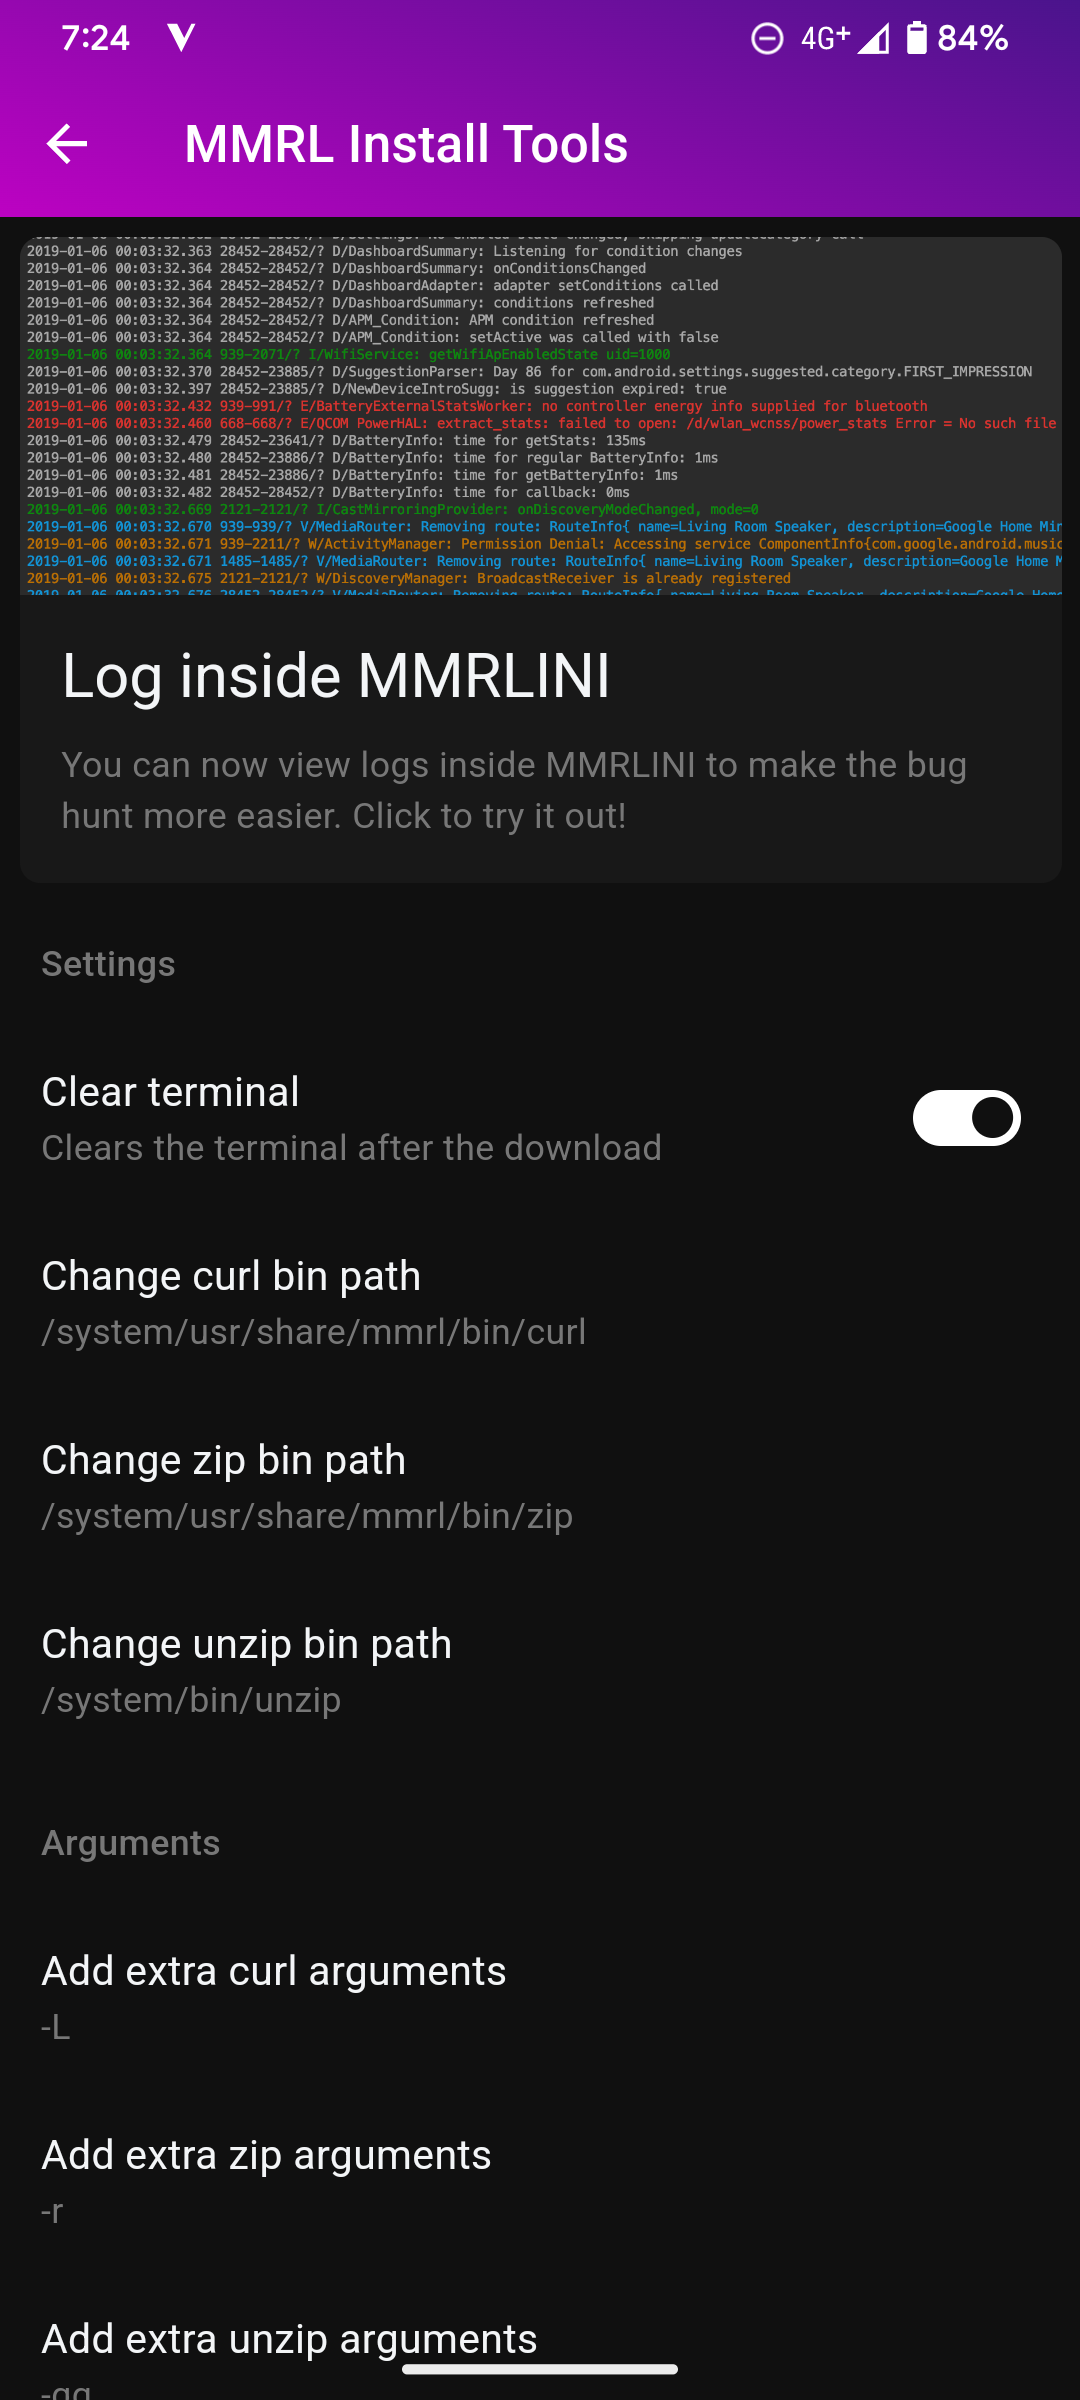
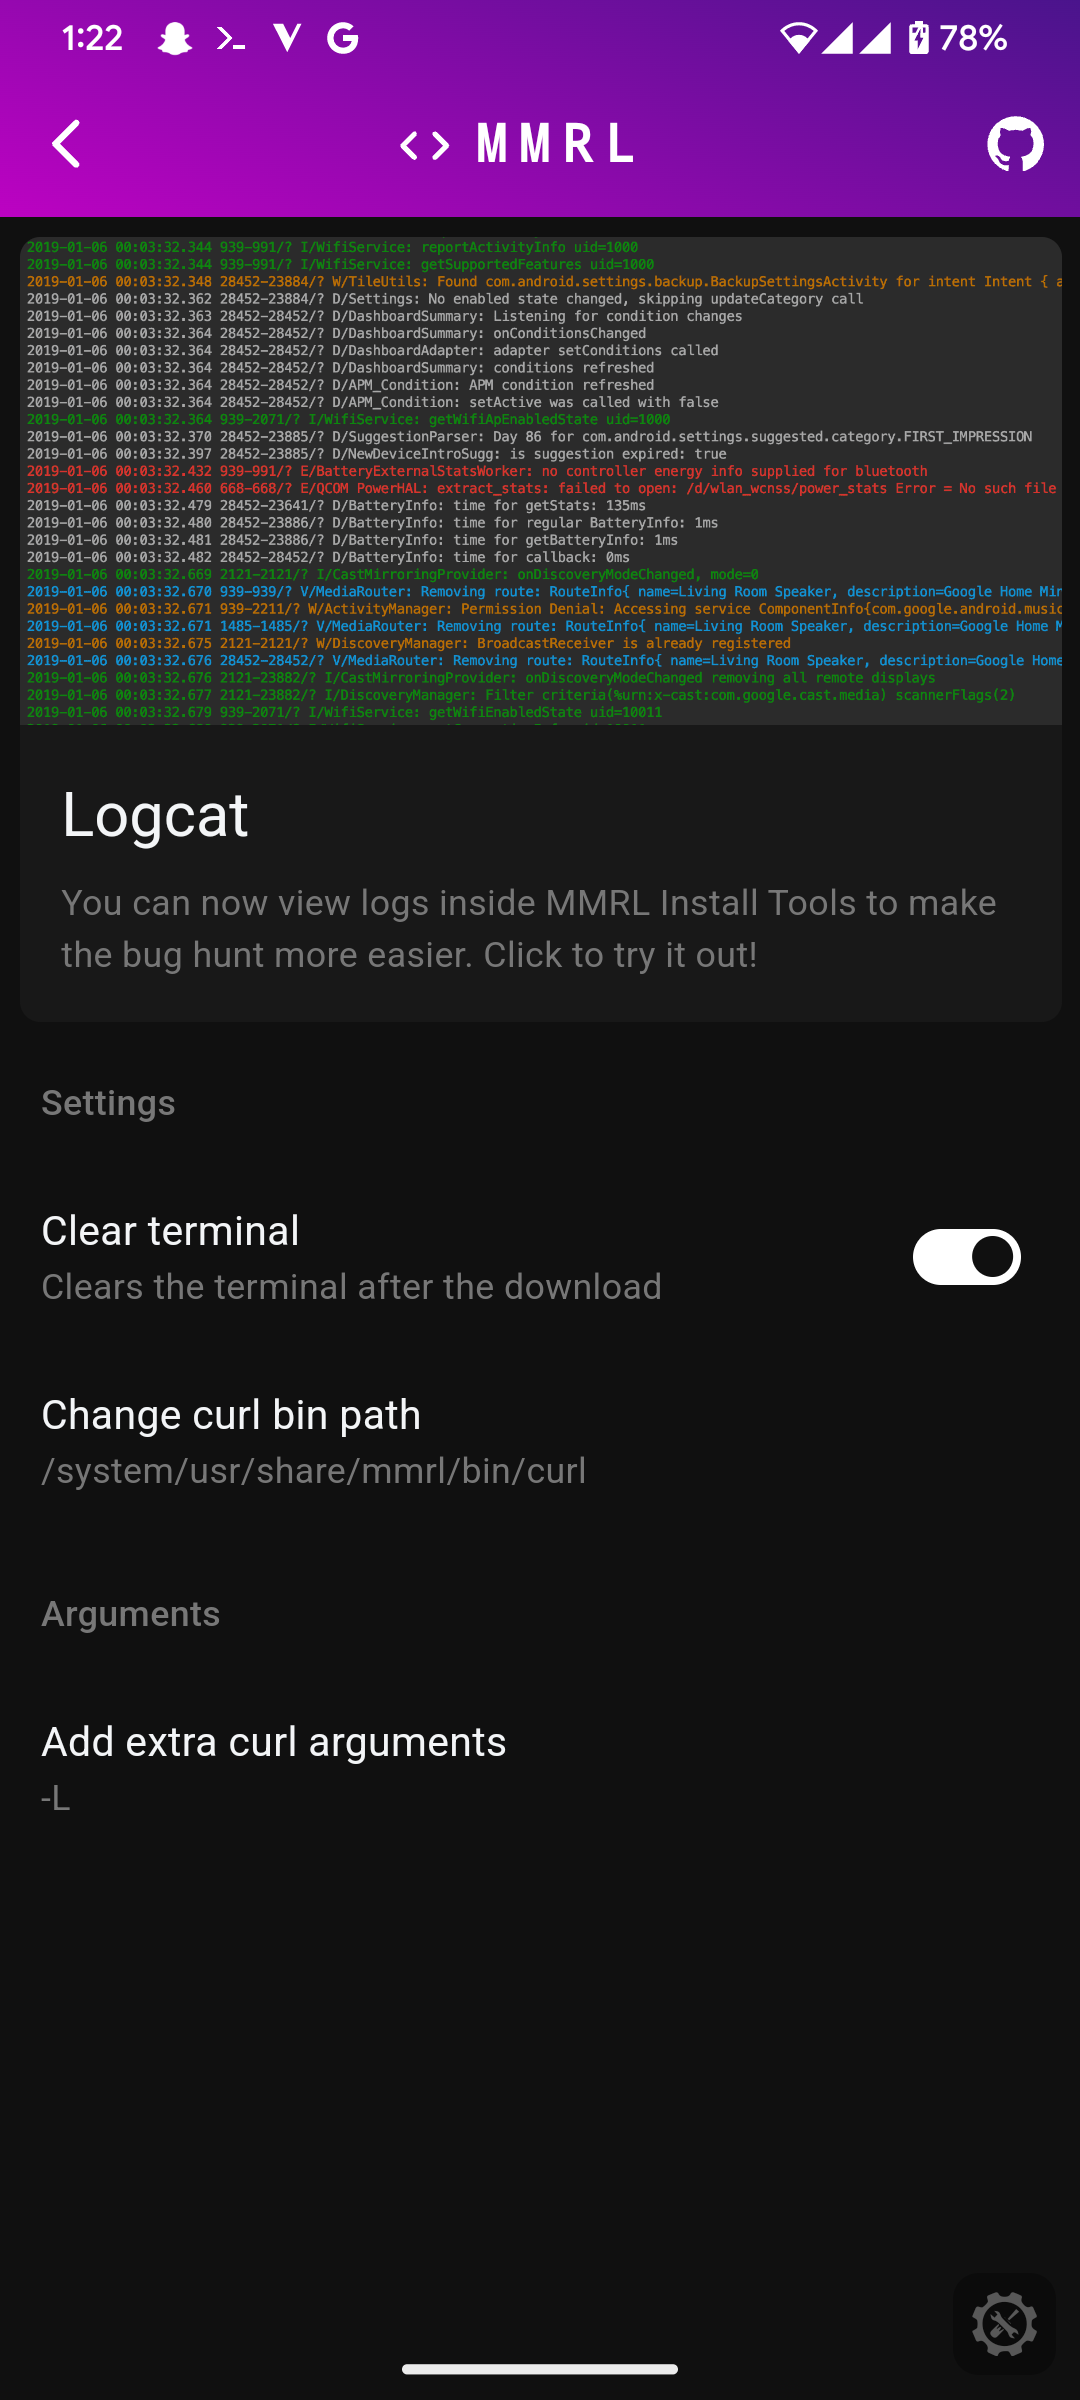
7.5.12

diff --git a/system/usr/share/mmrl/config/mmrl_install_tools/components/RenderToolbar.jsx b/system/usr/share/mmrl/config/mmrl_install_tools/components/RenderToolbar.jsx
@@ -1,24 +1,80 @@
 import React from "react";
 import { useActivity } from "@mmrl/hooks";
+import { CodeRounded,ArrowBackIosRounded,  GitHub } from "@mui/icons-material";
+import { Typography } from "@mui/material";
 import { Toolbar } from "@mmrl/ui";
 
-export default (title) => {
+export default (props) => {
   const { context } = useActivity();
 
   return () => {
-    return (
-      <Toolbar
-        modifier="noshadow"
-        sx={{
-          background: "rgb(188,2,194)",
-          background: "linear-gradient(22deg, rgba(188,2,194,1) 0%, rgba(74,20,140,1) 100%)",
-        }}
-      >
-        <Toolbar.Left>
-          <Toolbar.BackButton onClick={context.popPage} />
-        </Toolbar.Left>
-        <Toolbar.Center>{title}</Toolbar.Center>
-      </Toolbar>
-    );
+    if (props.isHome) {
+      return (
+        <Toolbar
+          modifier="noshadow"
+          sx={{
+            background: "rgb(188,2,194)",
+            background: "linear-gradient(22deg, rgba(188,2,194,1) 0%, rgba(74,20,140,1) 100%)",
+          }}
+        >
+          <Toolbar.Left>
+            <Toolbar.Button icon={ArrowBackIosRounded} onClick={context.popPage} />
+          </Toolbar.Left>
+          <Toolbar.Center
+            sx={{
+              display: "flex",
+              justifyContent: "center",
+              alignSelf: "center",
+              alignItems: "center",
+            }}
+          >
+            <Typography
+              sx={{
+                display: "flex",
+                justifyContent: "center",
+                alignSelf: "center",
+                alignItems: "center",
+              }}
+            >
+              <CodeRounded sx={{ display: "flex", mr: 1 }} />
+              <Typography
+                variant="h6"
+                noWrap
+                component="div"
+                sx={{
+                  mr: 2,
+                  display: "flex",
+                  fontFamily: "monospace",
+                  fontWeight: 700,
+                  letterSpacing: ".3rem",
+                  color: "inherit",
+                  textDecoration: "none",
+                }}
+              >
+                MMRL
+              </Typography>
+            </Typography>
+          </Toolbar.Center>
+          <Toolbar.Right>
+            <Toolbar.Button icon={GitHub} onClick={() => window.open("https://github.com/DerGoogler/mmrl_install_tools")} />
+          </Toolbar.Right>
+        </Toolbar>
+      );
+    } else {
+      return (
+        <Toolbar
+          modifier="noshadow"
+          sx={{
+            background: "rgb(188,2,194)",
+            background: "linear-gradient(22deg, rgba(188,2,194,1) 0%, rgba(74,20,140,1) 100%)",
+          }}
+        >
+          <Toolbar.Left>
+            <Toolbar.Button icon={ArrowBackIosRounded} onClick={context.popPage} />
+          </Toolbar.Left>
+          <Toolbar.Center>{props.title}</Toolbar.Center>
+        </Toolbar>
+      );
+    }
   };
 };

diff --git a/system/usr/share/mmrl/config/mmrl_install_tools/index.jsx b/system/usr/share/mmrl/config/mmrl_install_tools/index.jsx
@@ -10,12 +10,12 @@ const CenterBox = include("components/CenterBox.jsx");
 
 function App() {
   const { context } = useActivity();
-  const { theme } = useTheme()
+  const { theme } = useTheme();
   const [config, setConfig] = useConfig();
 
   if (BuildConfig.VERSION_CODE < 21410) {
     return (
-      <Page renderToolbar={RenderToolbar("Version mismatch")}>
+      <Page renderToolbar={RenderToolbar({ title: "Version mismatch" })}>
         <CenterBox>
           MMRL Install Tools requires MMRL above <strong>2.14.10</strong>!
         </CenterBox>
@@ -24,7 +24,7 @@ function App() {
   }
 
   return (
-    <Page sx={{ p: 0 }} renderToolbar={RenderToolbar("MMRL Install Tools")}>
+    <Page sx={{ p: 0 }} renderToolbar={RenderToolbar({ isHome: true })}>
       <Card sx={{ m: 1 }}>
         <CardActionArea
           onClick={() => {
@@ -35,7 +35,12 @@ function App() {
             });
           }}
         >
-          <Image src="<CONFCWD>/assets/logcat-min.png" noOpen modFSAdds={{ MODID: modid }} sx={{ borderRadius: `${theme.shape.borderRadius}px ${theme.shape.borderRadius}px 0px 0px`,   border:"none",   width: "100%", height: "50%" }} />
+          <Image
+            src="<CONFCWD>/assets/logcat-min.png"
+            noOpen
+            modFSAdds={{ MODID: modid }}
+            sx={{ borderRadius: `${theme.shape.borderRadius}px ${theme.shape.borderRadius}px 0px 0px`, border: "none", width: "100%", height: "50%" }}
+          />
           <CardContent>
             <Typography gutterBottom variant="h5" component="div">
               Logcat
@@ -77,14 +82,6 @@ function App() {
         >
           <ListItemText primary="Add extra curl arguments" secondary={config.curl__args} />
         </ListItemDialogEditText>
-      </List>
-
-      <Divider />
-
-      <List subheader={<ListSubheader>Project</ListSubheader>}>
-        <ListItemButton onClick={() => window.open("https://github.com/DerGoogler/MMRL/issues")}>
-          <ListItemText primary="Report a issue" />
-        </ListItemButton>
       </List>
     </Page>
   );

diff --git a/system/usr/share/mmrl/config/mmrl_install_tools/activitys/TerminalActivity.jsx b/system/usr/share/mmrl/config/mmrl_install_tools/activitys/TerminalActivity.jsx
@@ -6,7 +6,7 @@ import { Stack, Box, Slider } from "@mui/material";
 import Terminal from "@mmrl/terminal";
 import FlatList from "flatlist-react";
 
-const RenderToolbar = include("components/RenderToolbar.jsx")
+const RenderToolbar = include("components/RenderToolbar.jsx");
 
 export default () => {
   const [fontSize, setFontSize] = useNativeStorage("mmrlini_log_terminal", 100);
@@ -51,7 +51,7 @@ export default () => {
   return (
     <Page
       onShow={startLog}
-      renderToolbar={RenderToolbar("Logcat")}
+      renderToolbar={RenderToolbar({ title: "Logcat" })}
       modifier="noshadow"
       renderBottomToolbar={() => {
         return (

diff --git a/CHANGELOG.md b/CHANGELOG.md
@@ -1,0 +1,3 @@
+<divider textAlign="left"><h1>7.5.12</h1></divider>
+
+- Little new toolbar design
